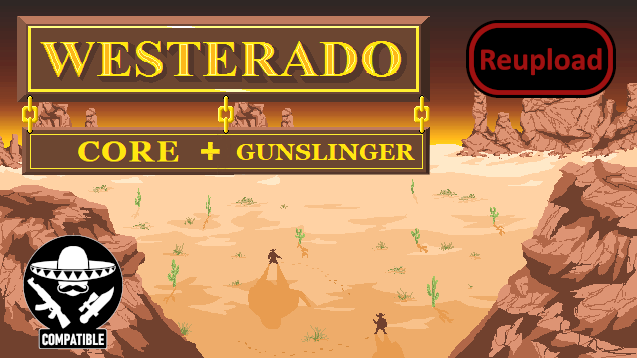
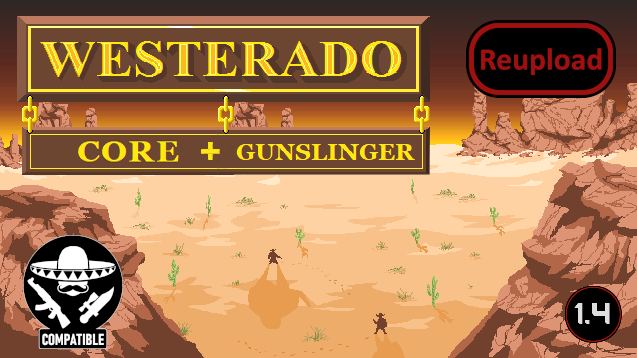
Fixed the CE-patch, thanks AvemRobin!

Changed region(s): [[0.865, 0.7989, 0.9843, 0.9832]]

diff --git a/README.md b/README.md
@@ -134,7 +134,7 @@ If you're looking for something like this but slightly different you can checkou
 All original content (e.g. text, imagery, sounds) in this mod is licensed under the All original content (e.g. text, imagery, sounds) in this mod is licensed under the http://creativecommons.org/licenses/by-sa/4.0/]CC-BY-SA 4.0 license.
 
 
-https://steamcommunity.com/sharedfiles/filedetails/changelog/2236973780]Last updated 2023-05-21
+https://steamcommunity.com/sharedfiles/filedetails/changelog/2236973780]Last updated 2023-07-04
 
 ![Image](https://i.imgur.com/PwoNOj4.png)
 
